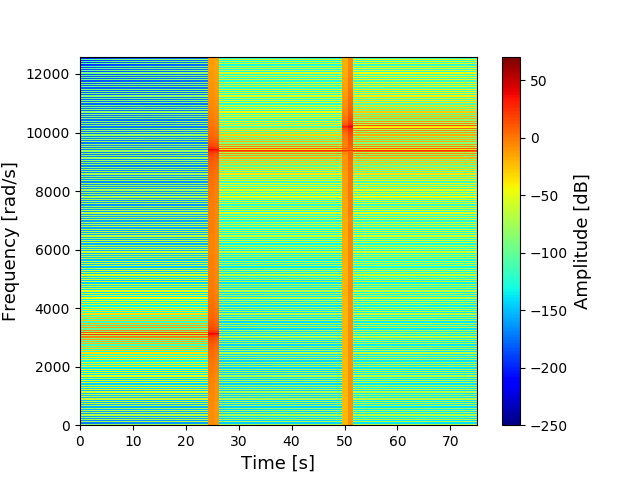
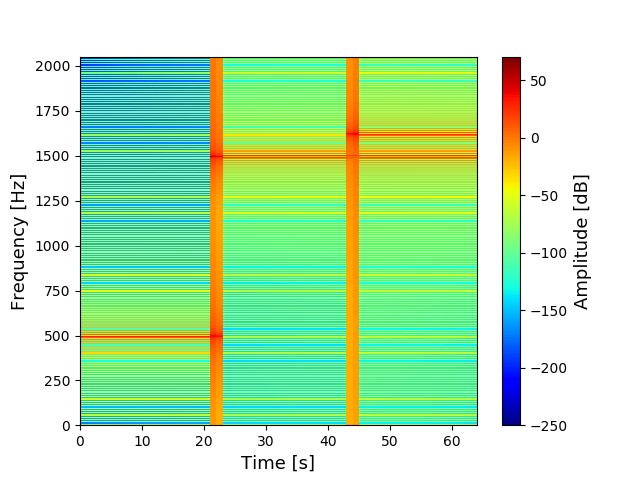
k

diff --git a/Rapport/sections/mainmatter/chapter_10/stft.tex b/Rapport/sections/mainmatter/chapter_10/stft.tex
@@ -21,7 +21,7 @@ The STFT will be implemented in Python, and the algorithm for the implementation
 \EndProcedure
 \end{algorithmic}
 \end{algorithm}
-
+The Hann window is used as an example window but is later compared to other windows and an overlap of 50\% is decided from the conventional usage of this.\\\\
 The algorithm for generating a spectrogram from the STFT is likewise implemented in Python and is seen in algorithm \ref{SPECTROalg}.
 \begin{algorithm}[H]
 \caption{Generate spectrogram}
@@ -43,7 +43,7 @@ The validation of the STFT and spectrograms will be done as a whole entity, and 
 \begin{align}\label{eq:SPECTROsignal}
 sig[n]=\begin{cases}\sin(1000\pi n)&\text{for }0\leq n<\frac{t}{3}\\
 \sin(3000\pi n)&\text{for }\frac{t}{3}\leq n < \frac{2t}{3}\\
-\sin(1500\pi n)+\sin(1625\pi n)&\text{for }\frac{2t}{3}\leq n\geq\frac{2t}{3}
+\sin(3000\pi n)+\sin(3250\pi n)&\text{for }\frac{2t}{3}\leq n\geq\frac{2t}{3}
 \end{cases}.
 \end{align}
 The sine waves are then with frequencies of 1, 3 and 3.25 Hz, respectively, and the signal is sampled for $t=75$ seconds at $f_s=4000$ Hz. Figure \ref{fig:test_stft} shows spectrograms of the signal generated with windows of different lengths.
@@ -53,15 +53,15 @@ The sine waves are then with frequencies of 1, 3 and 3.25 Hz, respectively, and 
 \centering
 \includegraphics[width=\textwidth]{figures/validation/stft/1.png}
 \caption{}
-\label{fig:test_stft1}
+\label{fig:test_stft2}
 \end{subfigure}
 \begin{subfigure}{0.49\textwidth}
 \centering
 \includegraphics[width=\textwidth]{figures/validation/stft/2.png}
 \caption{}
-\label{fig:test_stft2}
+\label{fig:test_stft1}
 \end{subfigure}
-\caption{\textbf{(a)} Spectrogram of signal in \eqref{eq:SPECTROsignal} generated with window of length $2^{13}=8192$ and overlap of 2. The high spectral and low temporal resolutions follows from a wide window used in the STFT. \textbf{(b)} Spectrogram of signal in \eqref{eq:SPECTROsignal} generated with window of length $2^6=64$ and overlap of 2. The low spectral and high temporal resolutions follow from a narrow window used in the STFT.}
+\caption{\textbf{(a)} Spectrogram of signal in \eqref{eq:SPECTROsignal} generated with a Hann window of length $2^{13}=8192$ and overlap of 2. The high spectral and low temporal resolutions follows from a wide window used in the STFT. \textbf{(b)} Spectrogram of signal in \eqref{eq:SPECTROsignal} generated with a Hann window of length $2^6=64$ and overlap of 2. The low spectral and high temporal resolutions follow from a narrow window used in the STFT.}
 \label{fig:test_stft}
 \end{figure}
 From figure \ref{fig:test_stft} it is clearly seen how the length of the window in the STFT used for generating the spectrogram affects the resolution in time and frequency. This agrees with Heisenberg's uncertanity principle described in section \ref{sec:heisenberg}, and so there must be made a tradeoff between the two resolutions. For the purpose of this project it is decided to use a window lenght of $2^{11}=2048$ as compromise between the to extreme cases illustrated by figure \ref{fig:test_stft}. \trine{evt. input mht. optimering af fftsize?? heisenberg??\smiley } \\
@@ -114,7 +114,7 @@ The STFT uses a window function to taper the segment of the data to be transform
 \caption{Hamming window}
 \label{fig:stft_hamming_100}
 \includegraphics[width=\textwidth]{figures/stft_windows/100/kaiser_4.png}
-\caption{Kaiser window, $\beta=4$.}
+\caption{Kaiser window, $\beta=4$}
 \label{fig:stft_kaiser_100_4}
 \end{subfigure}
 \begin{subfigure}{0.49\textwidth}
@@ -162,7 +162,7 @@ In figure \ref{fig:2048} is seen the spectrogram of \ref{eq:SPECTROsignal} gener
 \includegraphics[width=\textwidth]{figures/validation/stft/peak/peak1024.png}
 \caption{}
 \end{subfigure}
-\caption{\textbf{(a)} Spectrogram of \ref{eq:SPECTROsignal} generated with a Kaiser window of order $M=2^{10}$ and with shape factor $\beta=6$. \textbf{(b)} Peak detection of spectrogram. The algorithm no longer produces unambigous results but jumps between different frequencies.}
+\caption{\textbf{(a)} Spectrogram of \ref{eq:SPECTROsignal} generated with a Kaiser window of order $M=2^{10}$ and with shape factor $\beta=6$. \textbf{(b)} Peak detection of spectrogram. The algorithm no longer produces unambigous results but jumps between different frequencies. Though not particularly visible it also happens from $t=0$s to $t=42.6$s.}
 \label{fig:1024}
 \end{figure}
 From figure \ref{fig:1024} it is seen that a window order of $M=2^{10}$ does not produce a spectral resulution sufficient for the peak detection algorithm to detect the most significant frequency - it jumps between different frequencies. As figure \ref{fig:2048} shows that $M=2^{11}$ is sufficient for the peak detection algorithm it can be concluded that the order $M$ of the window used in the STFT should be at least $2^{11}$.
